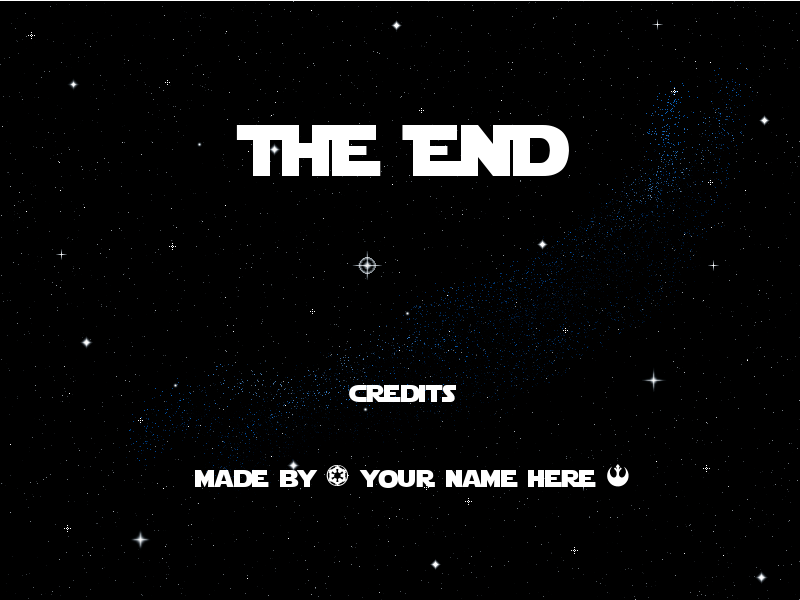
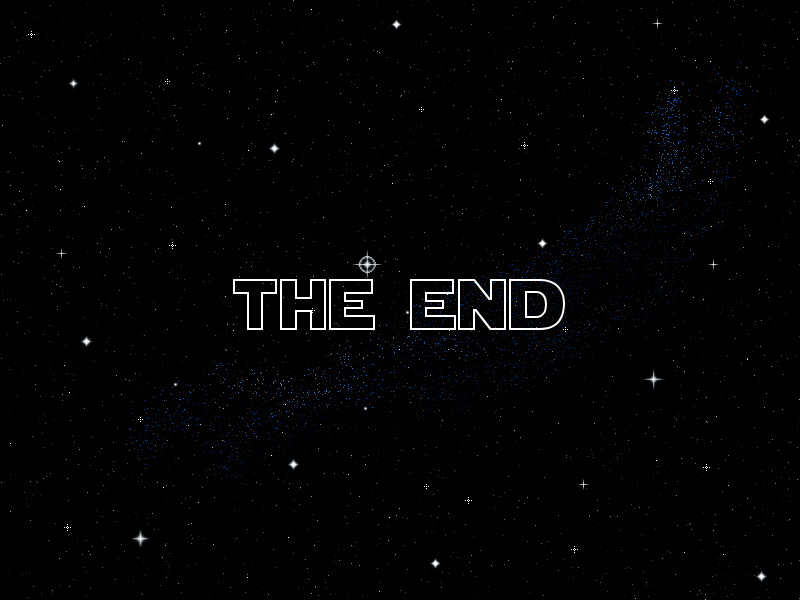
Add screens with credits and ways to win/lose

diff --git a/star_vader.rb b/star_vader.rb
@@ -3,11 +3,13 @@ require_relative 'player'
 require_relative 'enemy'
 require_relative 'lazer'
 require_relative 'explosion'
+require_relative 'credit'
 
 class StarVader < Gosu::Window
   WIDTH = 800
   HEIGHT = 600
-  ENEMY_FREQUENCY = 0.05
+  ENEMY_FREQUENCY = 0.03
+  MAX_ENEMIES = 25
 
   def initialize
     super WIDTH, HEIGHT
@@ -17,11 +19,39 @@ class StarVader < Gosu::Window
   end
 
   def initialize_game
+    @background_image = Gosu::Image.new('images/background.png')
     @player      = Player.new(self)
     @enemies     = []
     @lazers      = []
     @explosions  = []
     @scene       = :game
+    @enemies_appeared  = 0
+    @enemies_destroyed = 0
+  end
+
+  def initialize_end(fate)
+    @background_image = Gosu::Image.new('images/end.png')
+    case fate
+    when :count_reached
+      @message = "You vanquished #{@enemies_destroyed} rebels!"
+      escaped = (MAX_ENEMIES - @enemies_destroyed)
+      @message2 = "but... #{escaped} escaped your clutches."
+    when :hit_by_enemy
+      @message = 'The rebel scum collided with your vessel.'
+      @message2 = "You ended #{@enemies_destroyed} rebels before this fate."
+    when :out_of_bounds
+      @message = 'You fled the battle in preparation of your revenge.'
+      @message2 = "You vanquished #{@enemies_destroyed} rebels anyway."
+    end
+    @bottom_message = "Press 'p' to play again, or 'q' to quit."
+    @message_font = Gosu::Font.new(28, name: 'Star Jedi')
+    @credits = []
+    y = 700
+    File.open('credits.txt').each do |line|
+      @credits.push Credit.new(self, line.chomp, 100, y)
+      y += 30
+    end
+    @scene = :end
   end
 
   def draw
@@ -40,6 +70,7 @@ class StarVader < Gosu::Window
   end
 
   def draw_game
+    @background_image.draw 0, 0, 0
     @player.draw
     @enemies.each(&:draw)
     @lazers.each(&:draw)
@@ -47,6 +78,15 @@ class StarVader < Gosu::Window
   end
 
   def draw_end
+    @background_image.draw 0, 0, 0
+    clip_to(50, 140, 700, 360) do
+      @credits.each(&:draw)
+    end
+    draw_line 0, 140, Gosu::Color::RED, WIDTH, 140, Gosu::Color::RED
+    @message_font.draw @message, 40, 40, 1, 1, 1, Gosu::Color::YELLOW
+    @message_font.draw @message2, 40, 75, 1, 1, 1, Gosu::Color::YELLOW
+    draw_line 0, 500, Gosu::Color::RED, WIDTH, 500, Gosu::Color::RED
+    @message_font.draw @bottom_message, 180, 540, 1, 1, 1, Gosu::Color::WHITE
   end
 
   def update
@@ -63,7 +103,10 @@ class StarVader < Gosu::Window
     @player.turn_right if button_down? Gosu::KbRight
     @player.accelerate if button_down? Gosu::KbUp
     @player.move
-    @enemies.push Enemy.new(self) if rand < ENEMY_FREQUENCY
+    if rand < ENEMY_FREQUENCY
+      @enemies.push Enemy.new(self)
+      @enemies_appeared += 1
+    end
     @enemies.each(&:move)
     @lazers.each(&:move)
     @enemies.dup.each do |enemy|
@@ -73,6 +116,7 @@ class StarVader < Gosu::Window
           @enemies.delete enemy
           @lazers.delete lazer
           @explosions.push Explosion.new(self, enemy.x, enemy.y)
+          @enemies_destroyed += 1
         end
       end
     end
@@ -85,9 +129,17 @@ class StarVader < Gosu::Window
     @lazers.dup.each do |lazer|
       @lazers.delete lazer unless lazer.onscreen?
     end
+    initialize_end(:count_reached) if @enemies_appeared > MAX_ENEMIES
+    @enemies.each do |enemy|
+      distance = Gosu.distance enemy.x, enemy.y, @player.x, @player.y
+      initialize_end(:hit_by_enemy) if distance < @player.radius + enemy.radius
+    end
+    initialize_end(:out_of_bounds) if @player.y < -@player.radius
   end
 
   def update_end
+    @credits.each(&:move)
+    @credits.each(&:reset) if @credits.last.y < 150
   end
 
   def button_down(key)
@@ -108,6 +160,15 @@ class StarVader < Gosu::Window
   def button_down_game(key)
     if key == Gosu::KbSpace
       @lazers.push Lazer.new(self, @player.x, @player.y, @player.angle)
+    end
+  end
+
+  def button_down_end(key)
+    case key
+    when Gosu::KbQ
+      close
+    when Gosu::KbP
+      initialize_game
     end
   end
 end

diff --git a/credit.rb b/credit.rb
@@ -1,0 +1,24 @@
+class Credit
+  SPEED = 1
+
+  attr_reader :y
+
+  def initialize(_window, text, x, y)
+    @x = x
+    @y = @initial_y = y
+    @text = text
+    @font = Gosu::Font.new 36, name: 'Star Jedi'
+  end
+
+  def move
+    @y -= SPEED
+  end
+
+  def draw
+    @font.draw @text, @x, @y, 1
+  end
+
+  def reset
+    @y = @initial_y
+  end
+end

diff --git a/player.rb b/player.rb
@@ -1,5 +1,5 @@
 class Player
-  ROTATION_SPEED = 6
+  ROTATION_SPEED = 5
   ACCELERATION = 0.9
   FRICTION = 0.9
 
@@ -12,7 +12,7 @@ class Player
     @image = Gosu::Image.new 'images/vader.png'
     @velocity_x = 0
     @velocity_y = 0
-    @radius = 20
+    @radius = 24
     @window = window
   end
 

diff --git a/enemy.rb b/enemy.rb
@@ -4,7 +4,7 @@ class Enemy
   attr_reader :x, :y, :radius
 
   def initialize(window)
-    @radius = 20
+    @radius = 24
     @x = rand(window.width - 2 * @radius) + @radius
     @y = 0
     @image = Gosu::Image.new 'images/x-wing.png'

diff --git a/lazer.rb b/lazer.rb
@@ -8,7 +8,7 @@ class Lazer
     @y = y
     @direction = angle
     @image = Gosu::Image.new 'images/lazer_green.png'
-    @radius = 3
+    @radius = 6
     @window = window
   end
 
